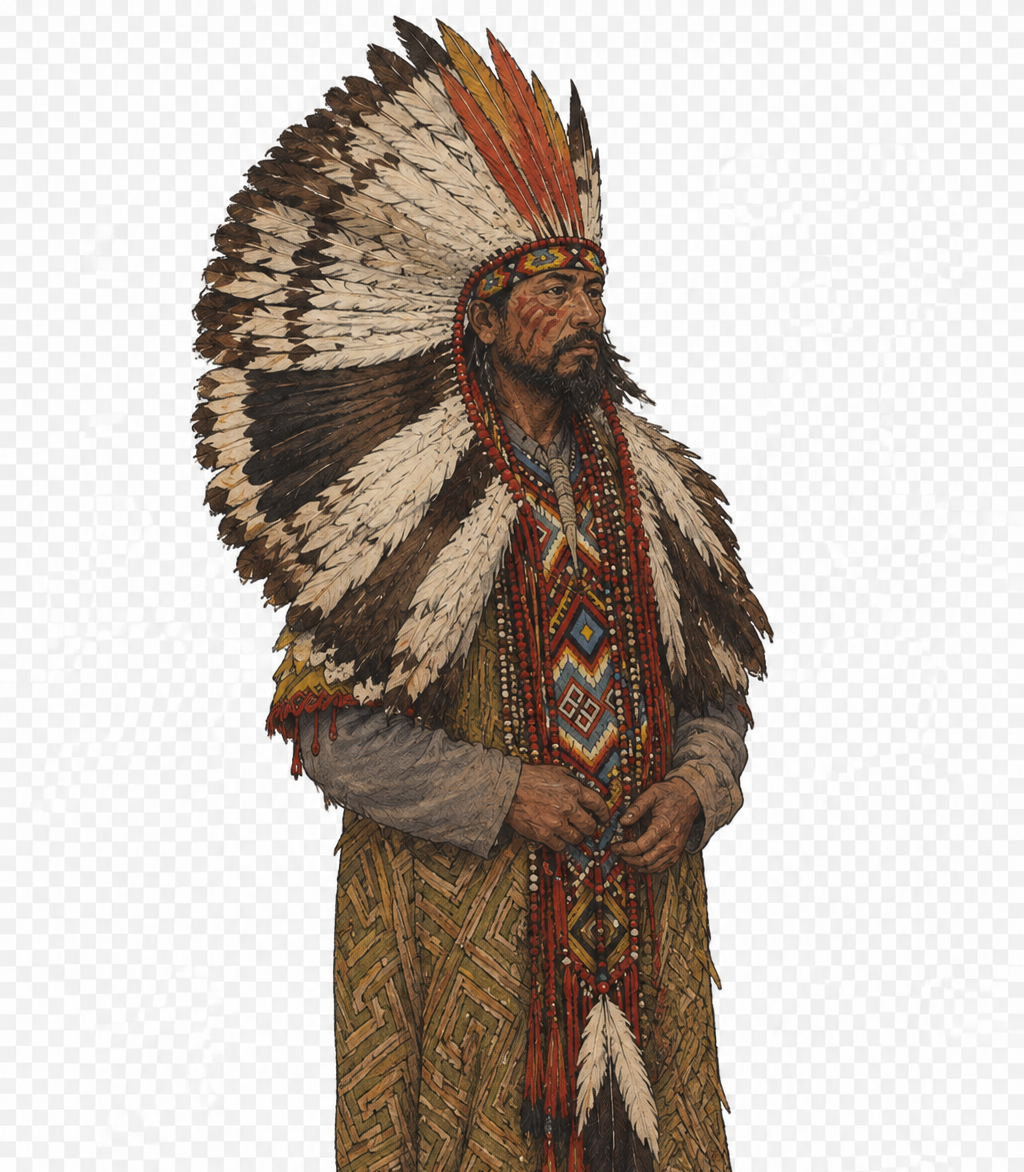
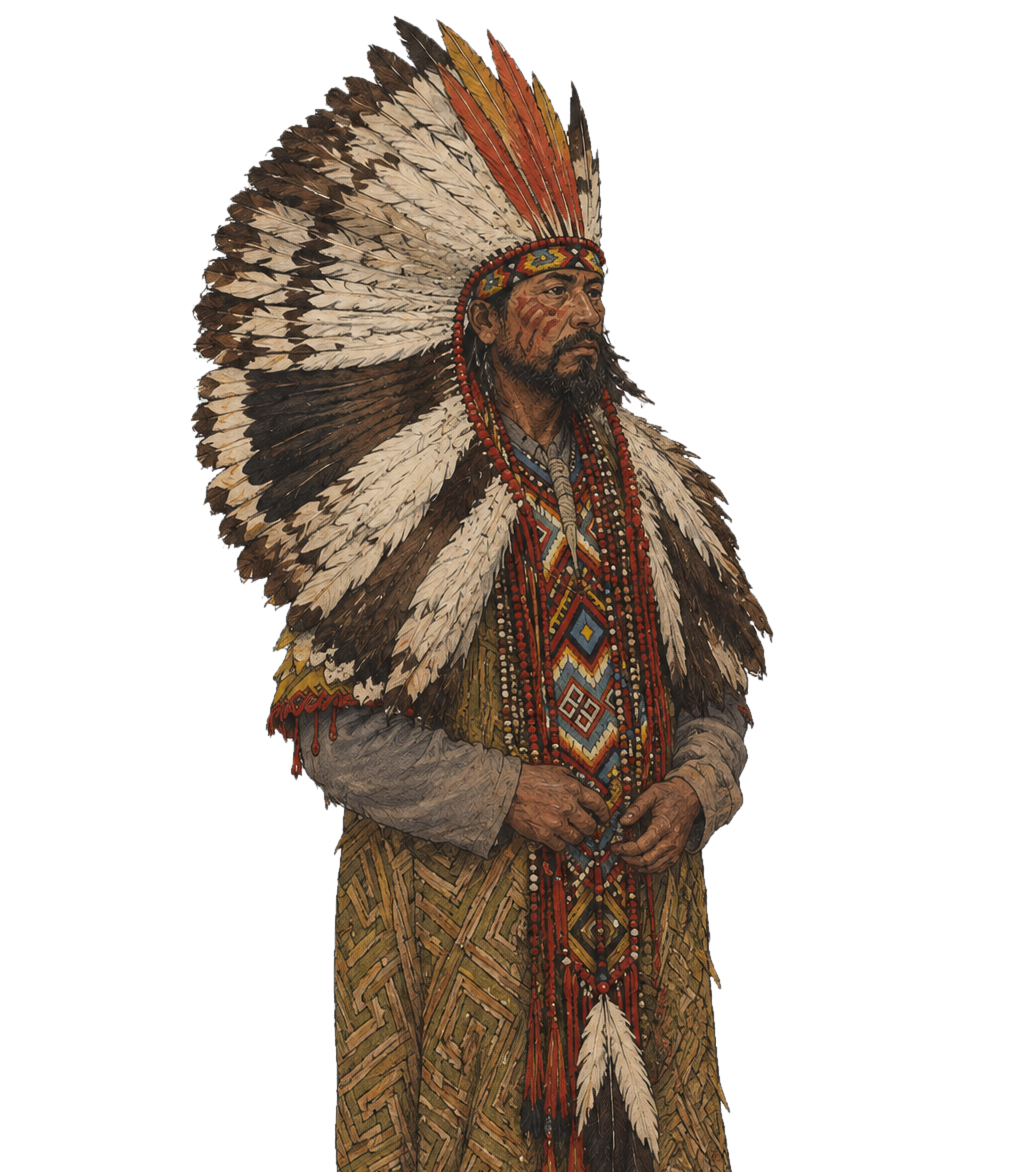
Só PNG transparentes: Pajé e Potira recortados, Arte/PP removida
- Arte/personagens_png/: versões transparentes do Pajé (substitui a opaca)
  e da Potira, em resolução cheia
- Arte/PP/ (artes de fundo branco) removida; fica no histórico do git
- Conversor lê todos os personagens da pasta transparente
- Pajé e Potira reconvertidos para o jogo
- README: orientação para sempre usar PNG transparente

diff --git a/Jogo/ferramentas/converter_arte.py b/Jogo/ferramentas/converter_arte.py
@@ -65,8 +65,7 @@ CLARO_DESCASCAR = 140        # canal mais escuro acima disto = claro
 NEUTRO_DESCASCAR = 30        # diferença entre o canal mais claro e o mais escuro abaixo disto = sem cor
 
 # Lista de personagens: (original dentro de Arte/, destino dentro de assets/, giro, meio da coxa).
-# As artes vêm de Arte/personagens_png/personagens_em_png/ (com fundo transparente). Potira e
-# Pajé ainda não têm versão transparente: vêm de Arte/PP/ (fundo branco).
+# Todas as artes vêm de Arte/personagens_png/personagens_em_png/, com fundo transparente.
 # - giro: as artes vieram deitadas, com a cabeça para a direita; 90 gira no
 #   sentido anti-horário e deixa a pessoa de pé. Use 0 se a arte já estiver de pé.
 # - meio da coxa: a altura (em pixels da arte JÁ DE PÉ, contando de cima) onde fica o meio
@@ -77,14 +76,14 @@ PNG = "personagens_png/personagens_em_png/"
 PERSONAGENS = [
     (PNG + "Yara.png", "personagens/yara.png", 90, 1675, True),
     (PNG + "Mbaé.png", "personagens/mbae.png", 90, 1920),
-    ("PP/Potira.png", "personagens/potira.png", 90, 1040),
+    (PNG + "Potira.png", "personagens/potira.png", 90, 1040),
     (PNG + "Tama.png", "personagens/tamandare.png", 90, 1950),
     (PNG + "Iandé.png", "personagens/iande.png", 90, 1785),
     (PNG + "Krenan.png", "personagens/krenan.png", 90, 1590),
     (PNG + "Araci.png", "personagens/araci.png", 90, 1550),
     (PNG + "Irmão Aleixo.png", "personagens/aleixo.png", 0, 1520),
     # O pajé já veio de pé. O topo é o do cocar de penas, então a cabeça fica um pouco menor.
-    ("PP/Pajé.png", "personagens/paje.png", 0, 920),
+    (PNG + "Pajé.png", "personagens/paje.png", 0, 920),
 ]
 
 

diff --git a/Jogo/README.md b/Jogo/README.md
@@ -80,15 +80,16 @@ menores em `Jogo/assets/`, com nomes sem acento e sem espaço (acento quebra no 
 1. Coloque a arte nova em `Caraiba/Arte/`.
 2. Abra `ferramentas/converter_arte.py` e acrescente uma linha na lista `CENARIOS`, por exemplo:
    `("Oca.png", "cenarios/cenario-oca.jpg"),`
-   Para uma pessoa, use a lista `PERSONAGENS`, com o giro e a altura do meio da coxa no fim:
-   `("PP/Potira.png", "personagens/potira.png", 90, 900),`
+   Para uma pessoa, coloque o PNG **com fundo transparente** em
+   `Arte/personagens_png/personagens_em_png/` e use a lista `PERSONAGENS`, com o giro e a
+   altura do meio da coxa no fim:
+   `(PNG + "Potira.png", "personagens/potira.png", 90, 1040),`
    Toda pessoa sai com o mesmo corte: do topo da cabeça até o meio das coxas, 860 de altura.
-   As artes de `Arte/PP/` vieram deitadas (cabeça para a direita): `90` deixa a pessoa de pé.
-   O fundo branco que encosta na borda vira transparente sozinho.
-   **Melhor ainda:** exporte a pessoa em PNG com fundo transparente (esconda a camada de
-   fundo antes de exportar). Aí o conversor usa o recorte de vocês como está, sem sobrar
-   branco nenhum. Cuidado com o "quadriculado" cinza e branco: ele precisa ser transparência
-   de verdade, não desenhado na imagem.
+   As artes vieram deitadas (cabeça para a direita): `90` deixa a pessoa de pé.
+   Exporte com a camada de fundo escondida e apague também os vãos (entre o braço e o
+   corpo). Cuidado com o "quadriculado" cinza e branco: ele precisa ser transparência de
+   verdade, não desenhado na imagem. (Se ainda vier fundo branco, o conversor tenta tirar
+   sozinho, mas o recorte fica pior.)
 3. Instale a ferramenta de imagens (só na primeira vez): `pip install -r requirements-ferramentas.txt`
 4. Rode: `python ferramentas/converter_arte.py`
 5. Em `dados/arte.py`, dê um apelido para o arquivo: `"oca": "cenarios/cenario-oca.jpg",`
